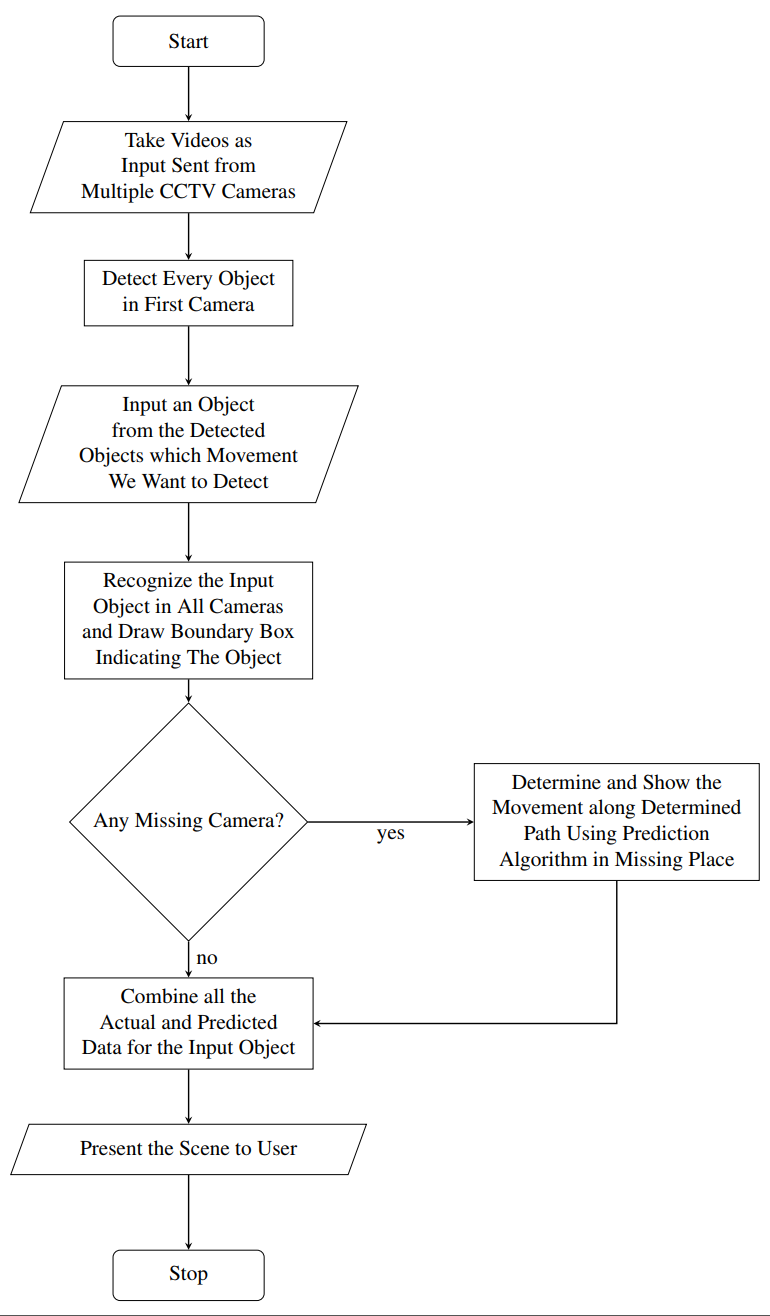
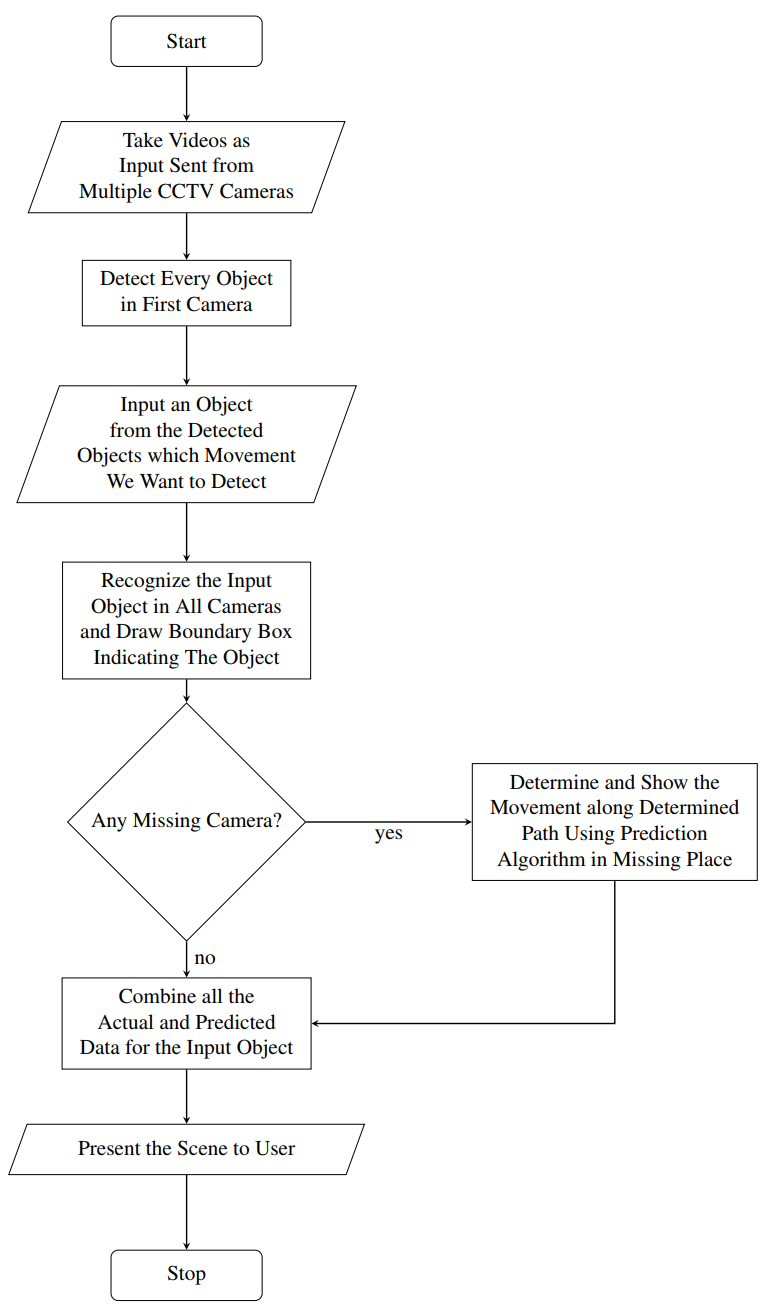
:up: update website

diff --git a/index.html b/index.html
@@ -307,7 +307,7 @@
 
             <p><strong>Keywords : </strong> Scene Reconstruction, Missing Scene Construction, Video Processing, Object Monitoring, Object Tracking, Surveillance System</p>
 
-            <img src="/images/thesis_image.png" alt="Flowchart of the System" style='float: left; height: 600px; margin-right: 20px; margin-top: 10px; margin-bottom: 10px;'>
+            <img src="/images/thesis_image.png" alt="Flowchart of the System" style='float: left; height: 570px; margin-right: 20px; margin-top: 10px; margin-bottom: 10px;'>
 
             <p>We have proposed a system that can present information of a human or an object to a user or visual inspector by analyzing
               videos taken from multiple static CCTV cameras from area of interests. It can reduce manual effort of visual inspector on visual surveillance
